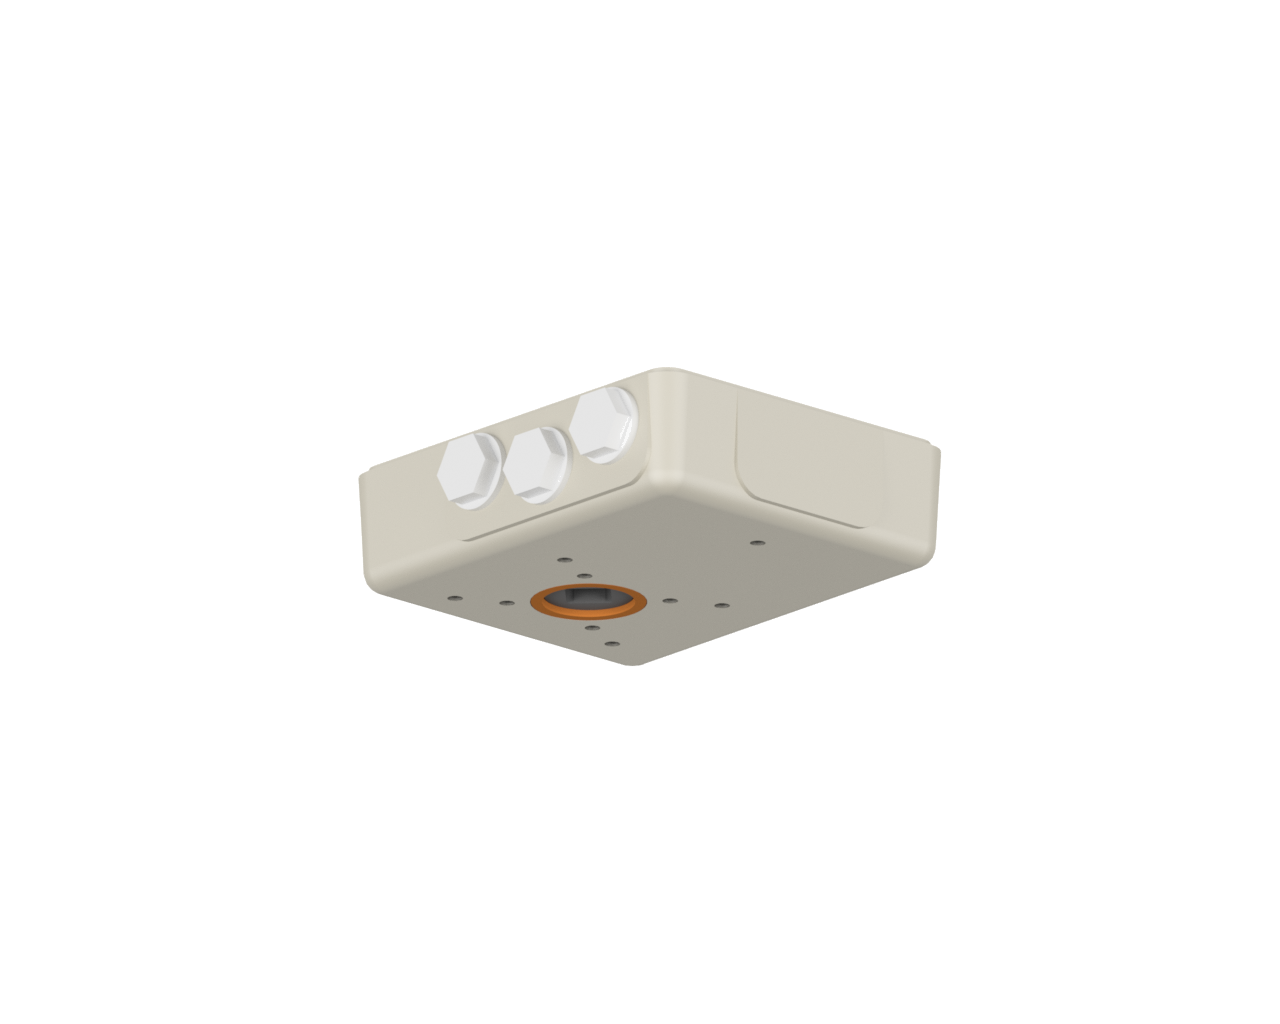
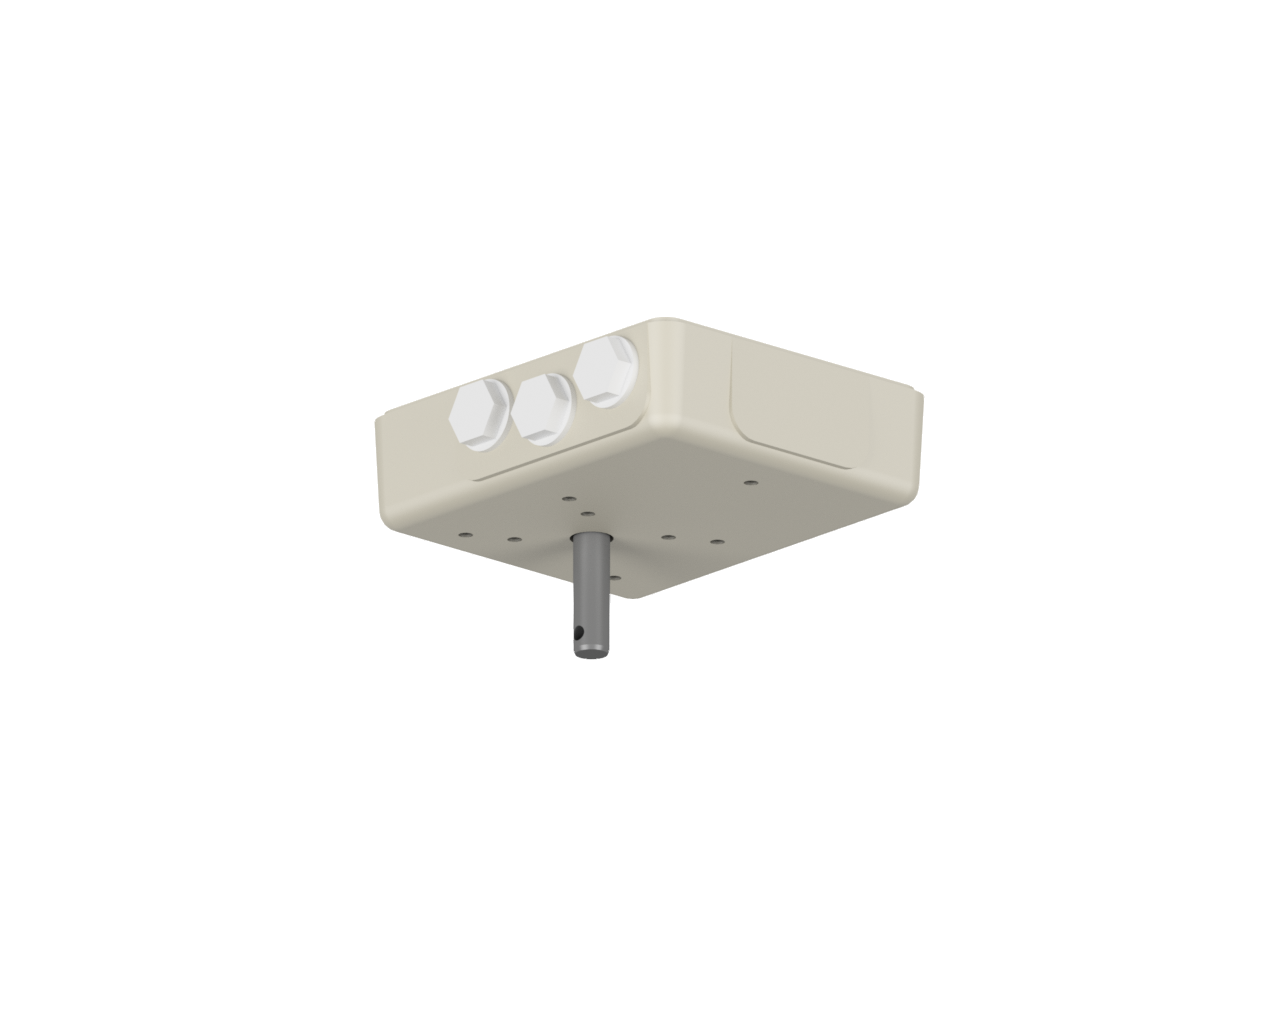
V20

Changed region(s): [[0.2812, 0.3125, 0.75, 0.6562]]

diff --git a/assets/js/configurator.js b/assets/js/configurator.js
@@ -64,9 +64,9 @@ function updateConfigurator() {
   const protection = protectionInput?.value || "";
   const preset = getPreset(torque);
 
-  baseLayer.src = "assets/img/konfigurator/gehaeuse.png";
-  ringLayer.src = "assets/img/konfigurator/ring.png";
-  hoodLayer.src = "assets/img/konfigurator/haube.png";
+  baseLayer.src = "assets/img/konfigurator/gehaeuse.png?v=20";
+  ringLayer.src = "assets/img/konfigurator/ring.png?v=20";
+  hoodLayer.src = "assets/img/konfigurator/haube.png?v=20";
 
   applyLayer(baseLayer, preset.layers.base);
   applyLayer(ringLayer, preset.layers.ring);

diff --git a/assets/js/version.js b/assets/js/version.js
@@ -5,5 +5,5 @@ document.addEventListener("DOMContentLoaded", () => {
     box.className = "version-badge";
     document.body.appendChild(box);
   }
-  box.textContent = "Konfigurator V19";
+  box.textContent = "Konfigurator V20";
 });